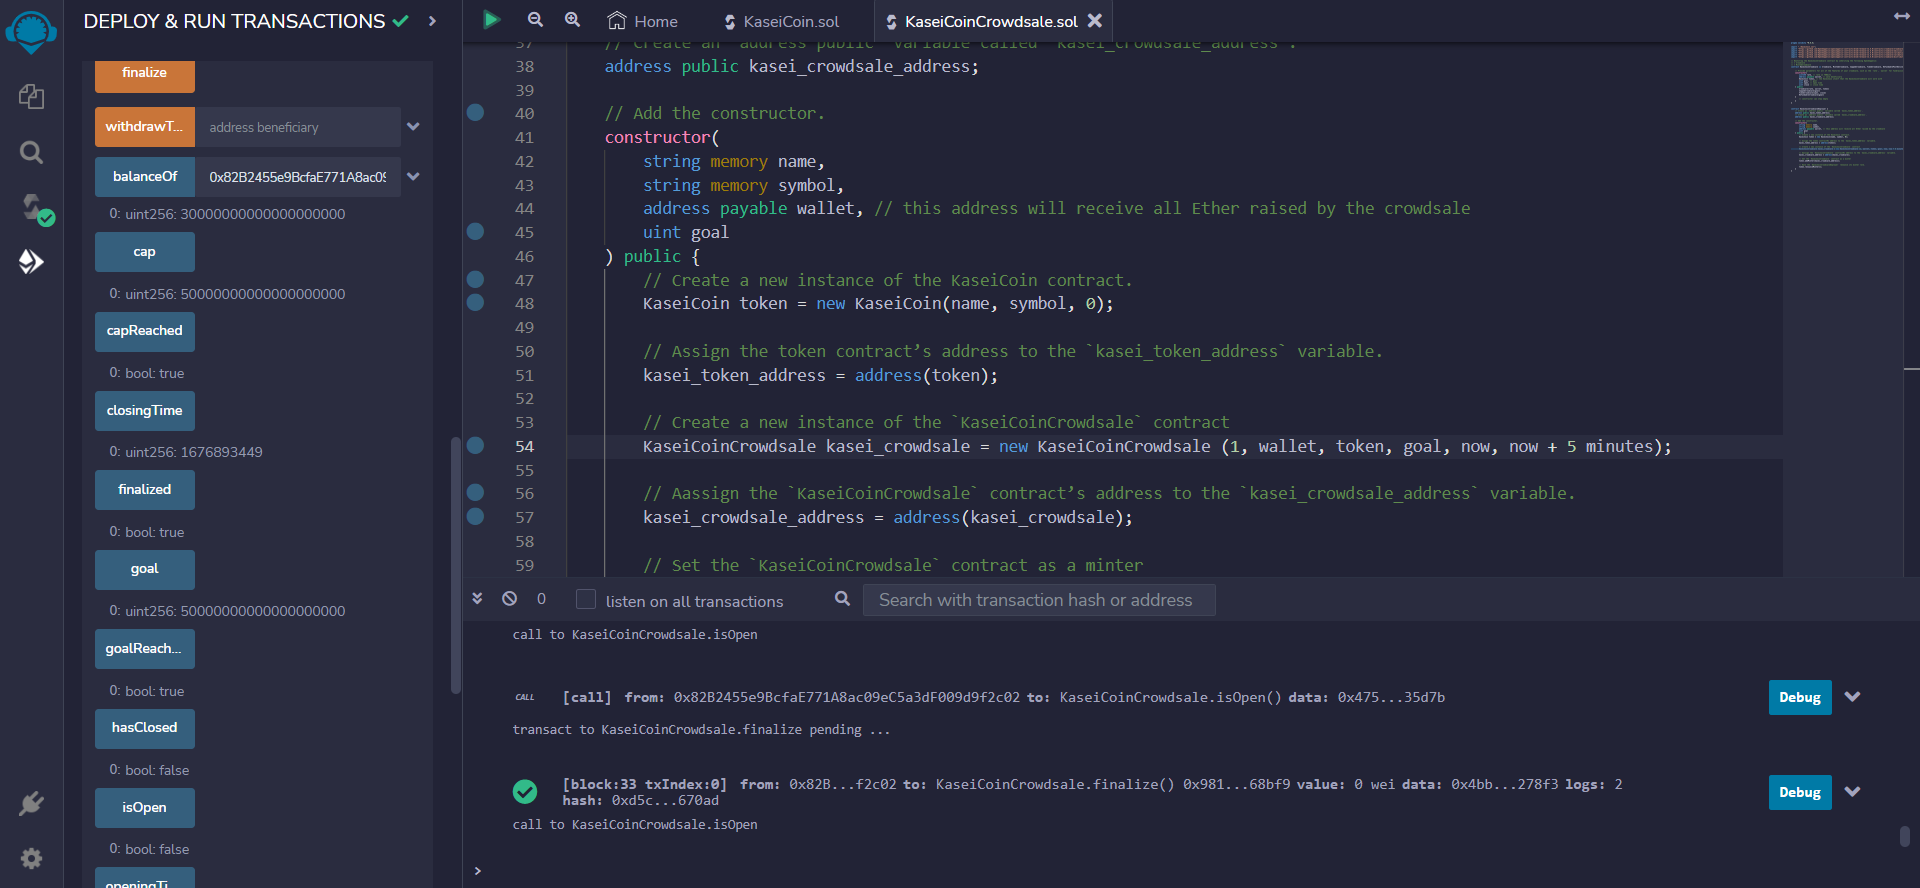
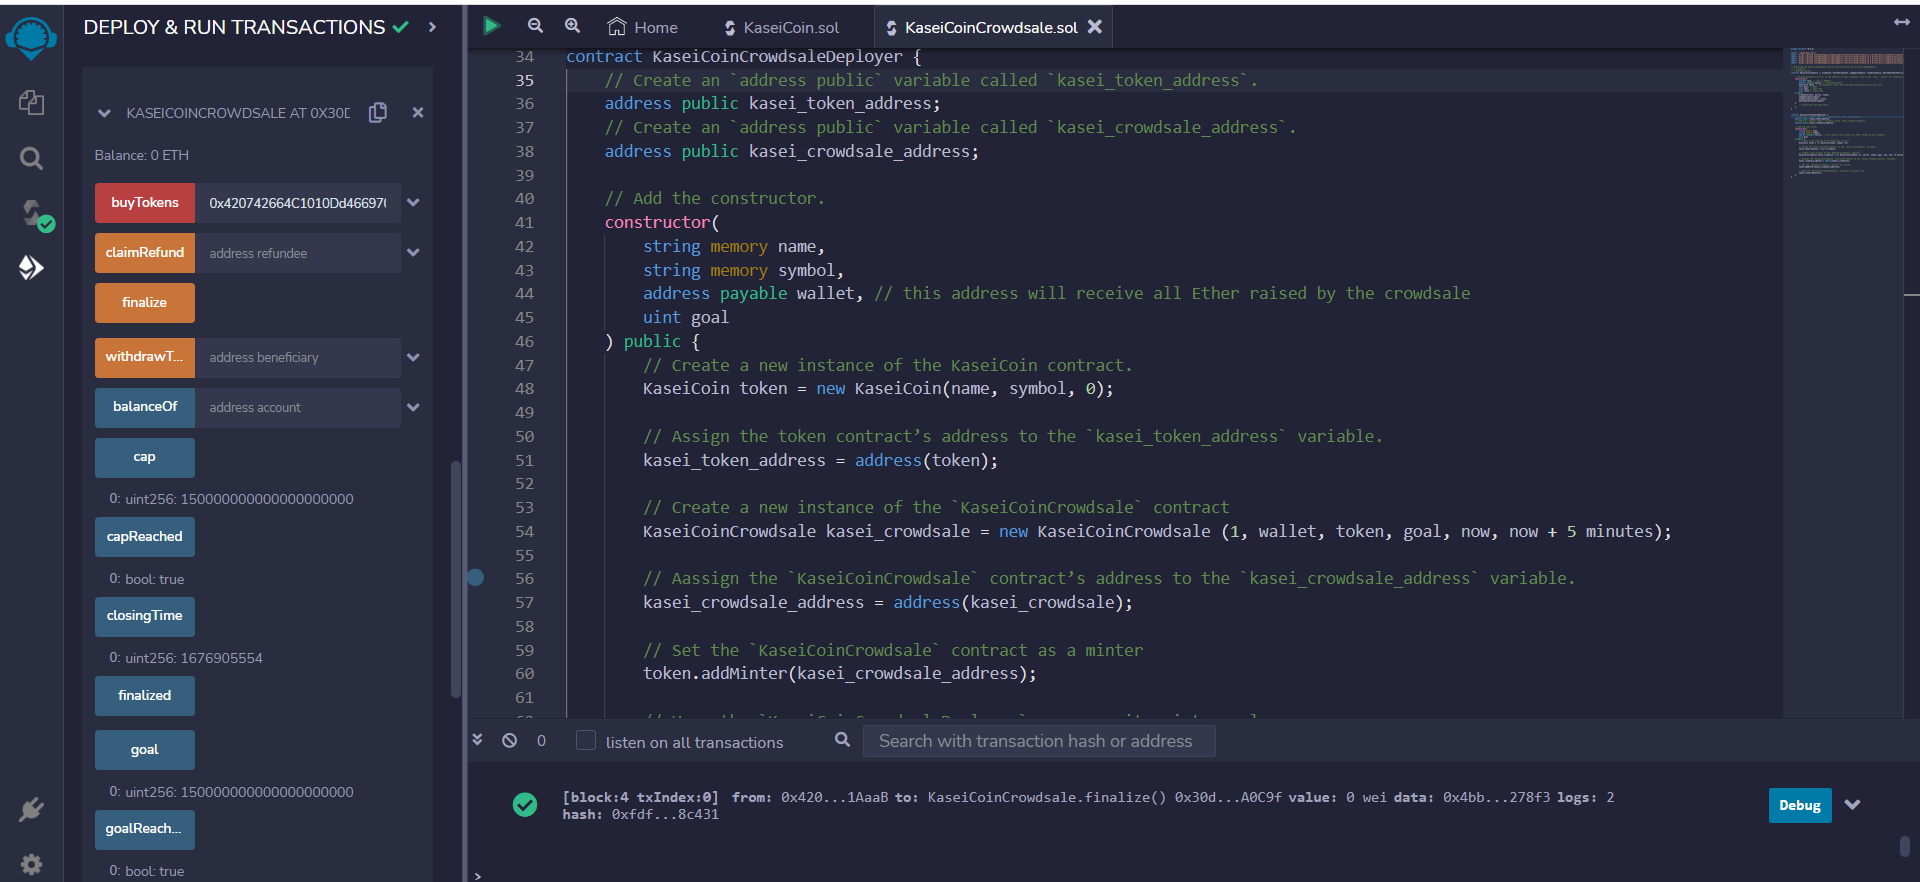
upload the optional challenge

diff --git a/README.md b/README.md
@@ -134,3 +134,71 @@ On top of the basic crowdsale contract above, I have extended the crowdsale cont
 * The `TimedCrowdsale` contract: Allows me to set a time limit for my crowdsale by adding an opening time and a closing time.
 
 * The `RefundablePostDeliveryCrowdsale` contract: Allows me to refund my investors. Every time that I launch a crowdsale, I set a goal amount of ether to raise. If I don’t reach the goal, it’s a common practice to refund my investors.
+
+To enhance the KaseiCoin crowdsale with this added functionality, I have completed the following steps:
+
+1. Import the three OpenZeppelin contracts just described into the `KaseiCoinCrowdsale.sol` contract:
+
+2. In addition to the `Crowdsale` and `MintedCrowdsale` contracts, which your contract previously inherited from OpenZeppelin, I have my `KaseiCoinCrowdsale` contract inherit the following three contracts, which I just imported:
+
+    * `CappedCrowdsale`
+
+    * `TimedCrowdsale`
+
+    * `RefundablePostDeliveryCrowdsale`
+
+3. In the `KaseiCoinCrowdsale` constructor, I have added the following parameters:
+
+    * The `uint goal` parameter: The amount of ether that I hope to raise during the crowdsalethat—that is, the goal of the crowdsale.
+
+    * The `uint open` parameter: The opening time for the crowdsale.
+
+    * The `uint close` parameter: The closing time for the crowdsale.
+
+4. Complete the `KaseiCoinCrowdsale` constructor code by adding calls to the new contracts:
+
+![Alt text](Images/crowdsale_code_update.png)
+
+5. Update the `KaseiCoinCrowdsaleDeployer` contract to allow the deployment of the updated crowdsale contract. In the constructor of the deployer contract, add a new `uint` parameter named `goal` that will allow me to set the crowdsale goal.
+
+6. I previously added an instance of the `KaseiCoinCrowdsale` contract to the KaseiCoin deployer contract. Because I modified the `KaseiCoinCrowdsale` contract to support new functionality, I now need to update my previous code:
+
+![Alt text](Images/deployer_update_code.png)
+
+    Note that in the preceding code, I added values for the three new parameters. The `goal` parameter represents the amount of ether to raise during the crowdsale. The `now` parameter represents the crowdsale opening time. And, `now + 24 weeks` represents the closing time.
+
+    The `now` function returns the current Ethereum block timestamp in the form of seconds since the Unix epoch. The **Unix epoch** (also known as **Unix time**, **POSIX time**, or **Unix timestamp**) is an integer representing the number of seconds that have elapsed since January 1, 1970 (at midnight coordinated universal time, UTC), not counting leap seconds.
+
+7. Compile and test the updated contract by completing following steps:
+
+* I first compiled and deployed the updated `KaseiCoinCrowdsale` contract.
+
+![Alt text](Images/crowdsale_updated_compiled.png)
+
+![Alt text](Images/optional_challenge_deployer_deployed.png)
+
+* There are more functions in the updated `KaseiCoinCrowdsale` contract.
+
+![Alt text](Images/crowdsale_updated_01.png)
+
+![Alt text](Images/crowdsale_updated_02.png)
+
+* Send ether to the crowdsale from a different account. I have used one account to buy 80 ETH worth of KAI, and another account to buy 70 ETH worth of KAI. Notice the `balanceOf` each account has gone up accordingly.
+
+![Alt text](Images/buy_token_updated_80_ETH_completed.png)
+
+![Alt text](Images/buy_token_updated_70_ETH_completed.png)
+
+* I can also proof that the transactions have gone through by reviewing the transactions in Ganache:
+
+![Alt text](Images/80_ETH_sent.png)
+
+![Alt text](Images/70_ETH_sent.png)
+
+* For testing purpose, I have set the `close` time to `now + 5 minutes`.
+
+* When sending ether to the contract, I have met the `goal` of the contract, which is 150 ether. Then finalize the sale by using the `finalize` function of the `Crowdsale` contract. Note that to finalize the sale, `isOpen` must return false (`isOpen` comes from `TimedCrowdsale` and checks whether the `close` time has passed).
+
+![Alt text](Images/finalised_crowdsale.png)
+
+* Review my tokens in MetaMask. To do so in MetaMask, click Add Token, click Custom Token, and then enter the address of the token contract. Make sure to buy larger amounts of tokens to get the denomination to appear in my wallet as more than a few wei worth.
